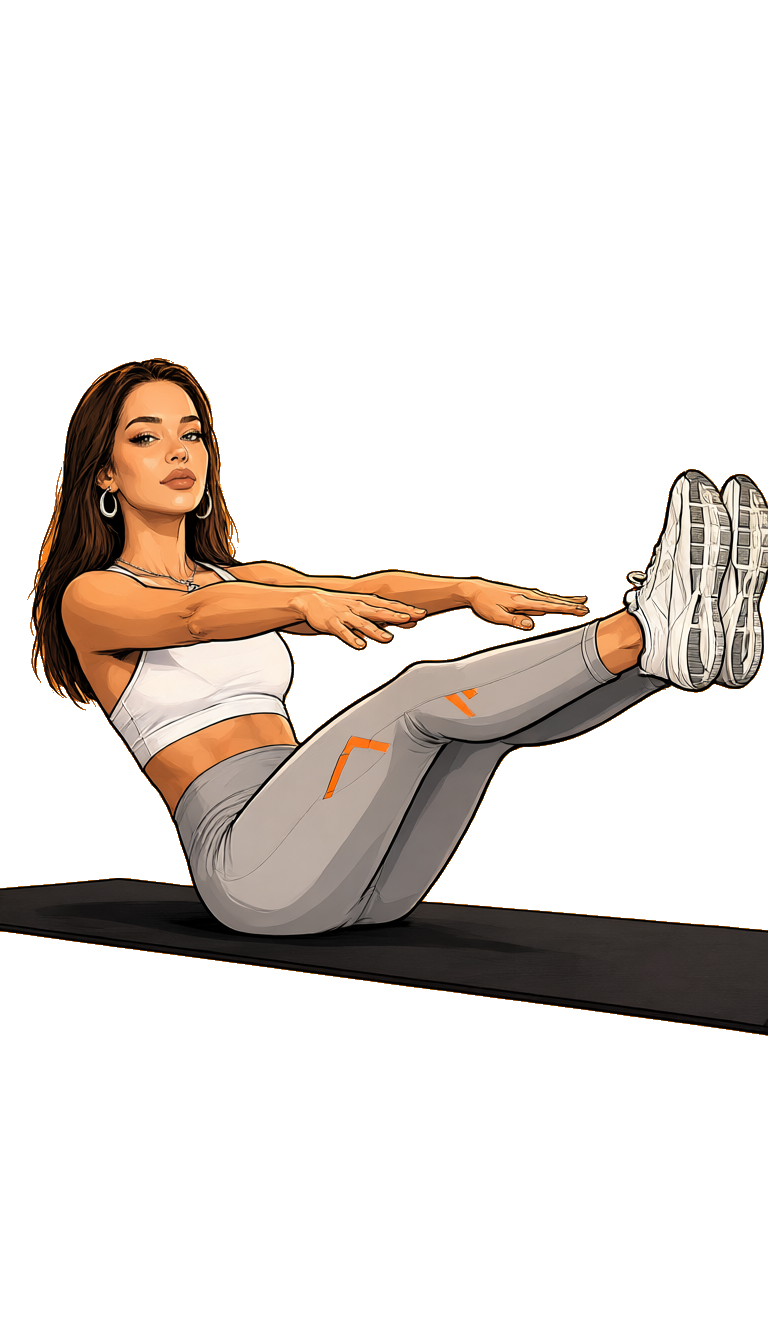
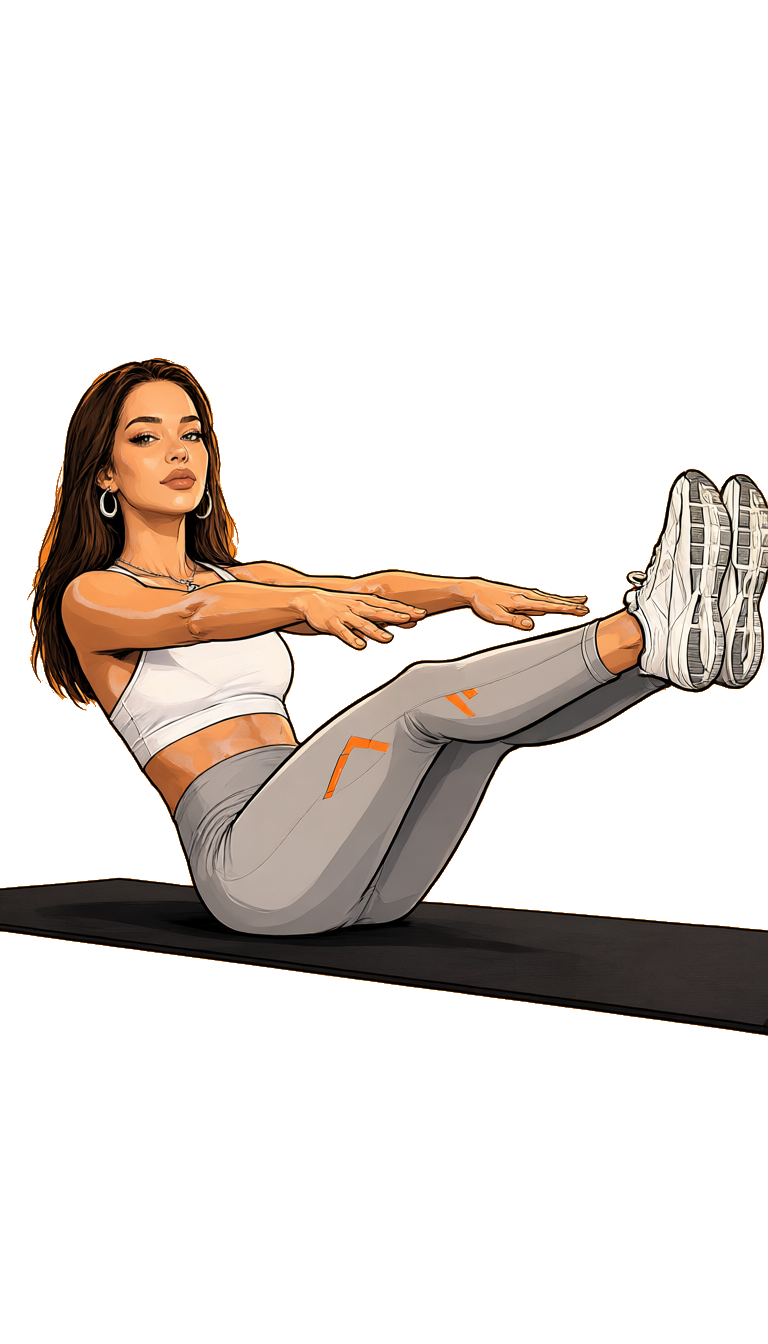
Add Aurora casual sprite and colour-key cutout script
- outputs/aurora_casual_584075567(.png|_src.png): full body, straight head
- tools/key_out.py: flat-background cutout used for all sprites
- re-cut pilates sprite with the script

Claude-Session: https://claude.ai/code/session_017ubSpRSTz92Hv89x7WM1Pb

diff --git a/tools/key_out.py b/tools/key_out.py
@@ -1,0 +1,31 @@
+# Cut a sprite out of a flat-colour background (e.g. sunset orange) into a transparent PNG.
+# usage: python3 key_out.py input.png output.png
+# The background colour is sampled from the top/bottom rows. Edges are soft and colour-decontaminated,
+# and background-coloured details enclosed by the figure (e.g. orange stripes on clothes) are kept.
+import sys
+import numpy as np
+from PIL import Image
+from scipy import ndimage
+
+src = np.array(Image.open(sys.argv[1]).convert("RGB")).astype(float)
+bg = np.median(np.concatenate([src[:40].reshape(-1, 3), src[-40:].reshape(-1, 3)]), axis=0)
+dist = np.sqrt(((src - bg) ** 2).sum(-1))
+alpha = np.clip((dist - 18) / (45 - 18), 0, 1)                      # soft key
+
+fg = alpha > 0.5                                                    # drop specks, keep big parts
+lab, n = ndimage.label(fg)
+sizes = ndimage.sum(fg, lab, range(1, n + 1))
+alpha *= ndimage.binary_dilation(np.isin(lab, [i + 1 for i, v in enumerate(sizes) if v > 3000]), iterations=3)
+
+A = np.clip(alpha, 1e-3, 1)[..., None]                              # remove background tint from edges
+rgb = np.where(alpha[..., None] > 0.98, src, np.clip((src - (1 - A) * bg) / A, 0, 255))
+
+holes = ndimage.binary_fill_holes(alpha > 0.5) & (alpha <= 0.5)    # bg-coloured areas enclosed by the figure
+lab, n = ndimage.label(holes)
+sizes = ndimage.sum(holes, lab, range(1, n + 1))
+small = np.isin(lab, [i + 1 for i, v in enumerate(sizes) if v < 2500])   # small = clothing details; big = gaps (between legs)
+small = ndimage.binary_dilation(small, iterations=3) & (alpha < 0.98)
+rgb[small], alpha[small] = src[small], 1
+
+Image.fromarray(np.dstack([rgb.astype(np.uint8), (alpha * 255).astype(np.uint8)]), "RGBA").save(sys.argv[2])
+print("bg", bg.astype(int).tolist())

diff --git a/README.md b/README.md
@@ -24,7 +24,7 @@ Always link to `raw.githubusercontent.com/...`. A `github.com/.../blob/...` link
 
 - **Cops' wives are NEVER shown from the front — always from behind** (back view, faces not visible), so they don't take attention from the main characters.
 - **Cops are always silhouettes in shadow** — faces never visible.
-- **Sprites: generate on a flat warm sunset-orange background** (e.g. `#F78929`), not greenscreen: a green key tints rim light and reflections green. Say "plain flat warm sunset orange background, completely empty, no objects" and cut it out with a colour key; no ML background removal needed.
+- **Sprites: generate on a flat warm sunset-orange background** (e.g. `#F78929`), not greenscreen: a green key tints rim light and reflections green. Say "plain flat warm sunset orange background, completely empty, no objects" and cut it out with `python3 tools/key_out.py in.png out.png` (colour key, soft edges, keeps small bg-coloured clothing details, clears big gaps like between the legs); no ML background removal needed.
 
 ## Outputs
 
@@ -32,6 +32,7 @@ Always link to `raw.githubusercontent.com/...`. A `github.com/.../blob/...` link
 |---|---|
 | `outputs/aurora_pilates_side_584075567.png` | Aurora pilates teaser, side view, transparent PNG sprite (approved pose) |
 | `outputs/aurora_pilates_side_584075567_src.png` | Same, original on flat orange background |
+| `outputs/aurora_casual_584075567.png` | Aurora casual/riding sprite: linen shirt, jeans, riding boots, apple; transparent PNG (`_src.png` = on orange) |
 
 Params: Guaryn Space, `Edit Image (1 Ref)`, base model (no LoRA), 28 steps, seed `584075567`, 9:16; prompt = the pilates prompt below + "head held straight and upright, not tilted", "Side view, camera at mat level", flat orange background.
 
